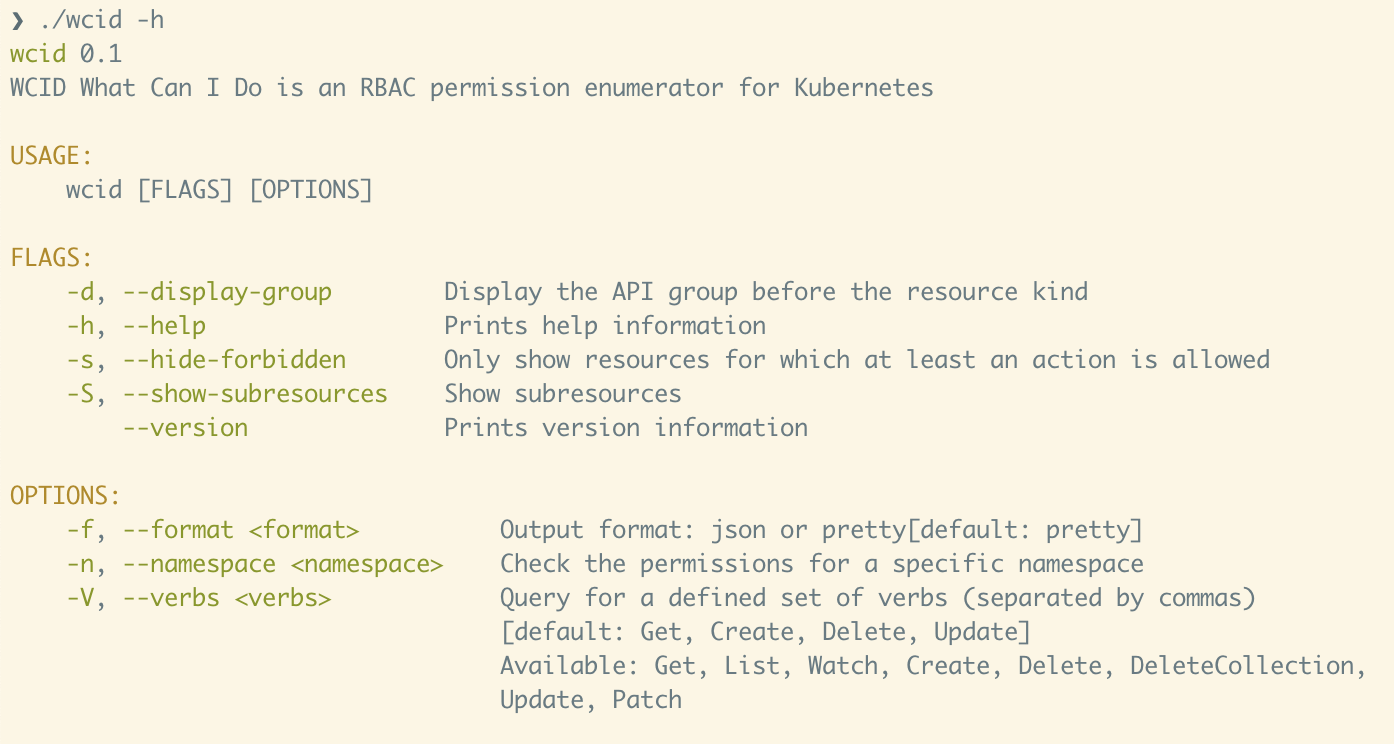
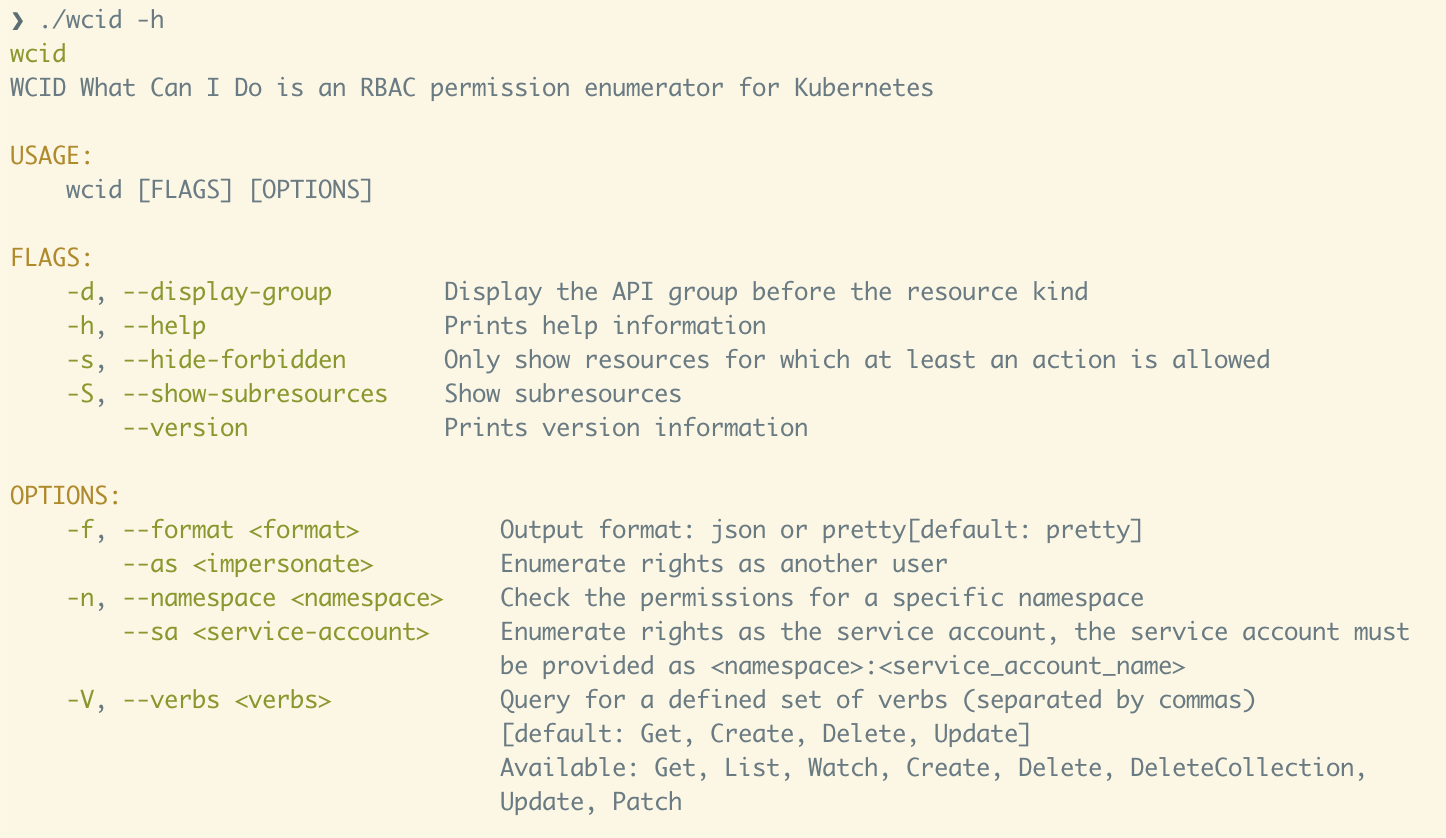
:sparkles: query for another user or a serviceaccount (#19)
* :sparkles: add the possibility to query for another user or service account

* :memo: update screenshots in readme

diff --git a/src/check.rs b/src/check.rs
@@ -26,6 +26,7 @@ async fn check_resource_verb<'a>(
     resource: &'a APIResource,
     verb: &'static str,
     namespace: Option<String>,
+    impersonate: Option<String>,
 ) -> Result<CheckResult> {
     let ssar: SelfSubjectAccessReview = serde_json::from_value(json!({
         "apiVersion": "authorization.k8s.io/v1",
@@ -43,12 +44,17 @@ async fn check_resource_verb<'a>(
 
     let (reqp, _) =
         SelfSubjectAccessReview::create_self_subject_access_review(&ssar, Default::default())?;
+    let mut request_builder = http::Request::post(reqp.uri());
+    request_builder = if let Some(impersonate) = impersonate {
+        request_builder.header("Impersonate-User", impersonate)
+    } else {
+        request_builder
+    };
+    let http_request = request_builder
+        .body(reqp.body().clone())
+        .expect("Unable to prepare HTTP request");
     let res = client
-        .request::<SelfSubjectAccessReview>(
-            http::Request::post(reqp.uri())
-                .body(reqp.body().clone())
-                .expect("Unable to prepare HTTP request"),
-        )
+        .request::<SelfSubjectAccessReview>(http_request)
         .await?;
     let status = res.status.expect("K8s answered with an empty status");
     Ok(CheckResult {
@@ -62,6 +68,7 @@ async fn check_resource(
     client: Client,
     resource: APIResource,
     namespace: Option<String>,
+    impersonate: Option<String>,
 ) -> Result<ResourceCheckResult> {
     let mut items: HashMap<&'static str, CheckResult> = HashMap::new();
     for verb in constants::ALL_VERBS
@@ -70,7 +77,14 @@ async fn check_resource(
     {
         items.insert(
             verb,
-            check_resource_verb(&client, &resource, verb, namespace.clone()).await?,
+            check_resource_verb(
+                &client,
+                &resource,
+                verb,
+                namespace.clone(),
+                impersonate.clone(),
+            )
+            .await?,
         );
     }
     Ok(ResourceCheckResult {
@@ -100,8 +114,9 @@ impl Checker {
             .map(|resource| {
                 let client = self.client.clone();
                 let ns = self.config.namespace.clone();
+                let impersonate = self.config.impersonate.clone();
                 let resource = resource.clone();
-                task::spawn(async { check_resource(client, resource, ns).await })
+                task::spawn(async { check_resource(client, resource, ns, impersonate).await })
             })
             .collect();
         let items = try_join_all(future_results).await?;

diff --git a/src/main.rs b/src/main.rs
@@ -8,10 +8,7 @@ mod formatter;
 mod types;
 
 #[derive(Clap)]
-#[clap(
-    version = "0.1",
-    about = "WCID What Can I Do is an RBAC permission enumerator for Kubernetes"
-)]
+#[clap(about = "WCID What Can I Do is an RBAC permission enumerator for Kubernetes")]
 #[clap(setting = AppSettings::ColoredHelp)]
 pub struct Opts {
     #[clap(
@@ -47,6 +44,13 @@ pub struct Opts {
     pub verbs: Option<String>,
     #[clap(short = 'S', long, long_about = "Show subresources")]
     pub show_subresources: bool,
+    #[clap(long = "as", long_about = "Enumerate rights as another user")]
+    pub impersonate: Option<String>,
+    #[clap(
+        long = "sa",
+        long_about = "Enumerate rights as the service account, the service account must be provided as <namespace>:<service_account_name>"
+    )]
+    pub service_account: Option<String>,
 }
 
 fn handle_verbs(verbs: Option<String>) -> Vec<&'static str> {
@@ -63,15 +67,26 @@ fn handle_verbs(verbs: Option<String>) -> Vec<&'static str> {
     }
 }
 
+fn qualify_sa(service_account: String) -> String {
+    format!("system:serviceaccount:{}", service_account)
+}
+
 #[tokio::main]
 async fn main() -> Result<()> {
     let opts: Opts = Opts::parse();
+    let impersonate = match (opts.impersonate, opts.service_account) {
+        (Some(_), Some(_)) => panic!("Can not use --as with --sa altogether"),
+        (Some(impersonate), None) => Some(impersonate),
+        (None, Some(service_account)) => Some(qualify_sa(service_account)),
+        (None, None) => None,
+    };
     let config = config::Config {
         display_group: opts.display_group,
         namespace: opts.namespace,
         hide_forbidden: opts.hide_forbidden,
         verbs: handle_verbs(opts.verbs),
         subresources: opts.show_subresources,
+        impersonate,
     };
     let checker = check::Checker::new(config.clone()).await;
     let result = checker.check_all().await?;

diff --git a/src/config.rs b/src/config.rs
@@ -5,4 +5,5 @@ pub struct Config {
     pub hide_forbidden: bool,
     pub subresources: bool,
     pub verbs: Vec<&'static str>,
+    pub impersonate: Option<String>,
 }
